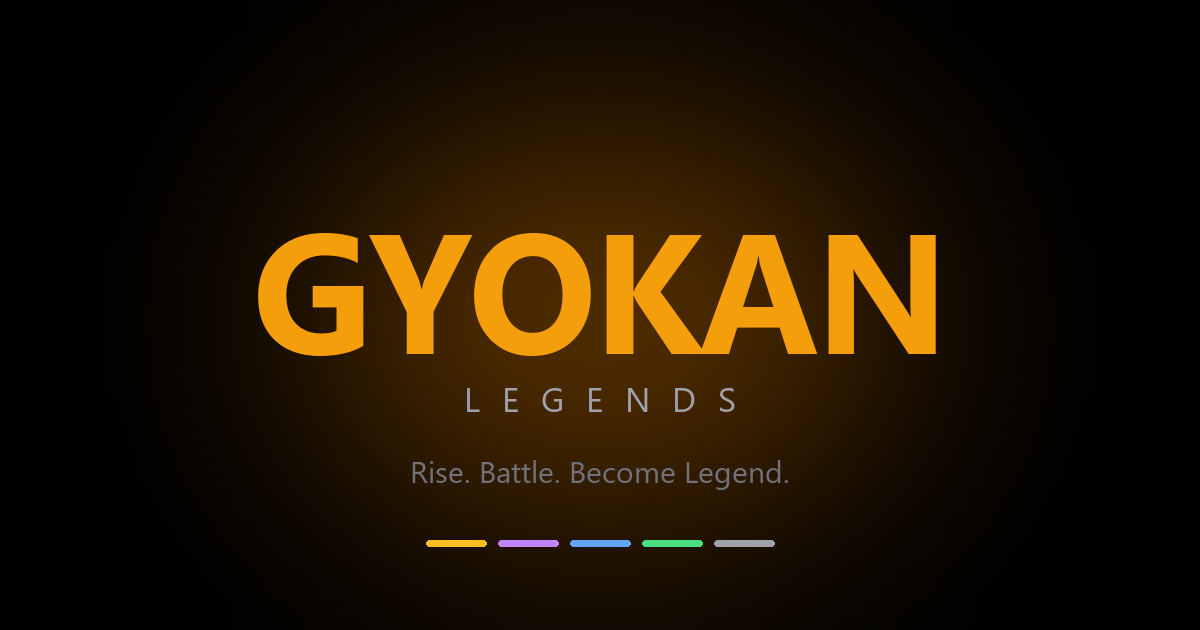
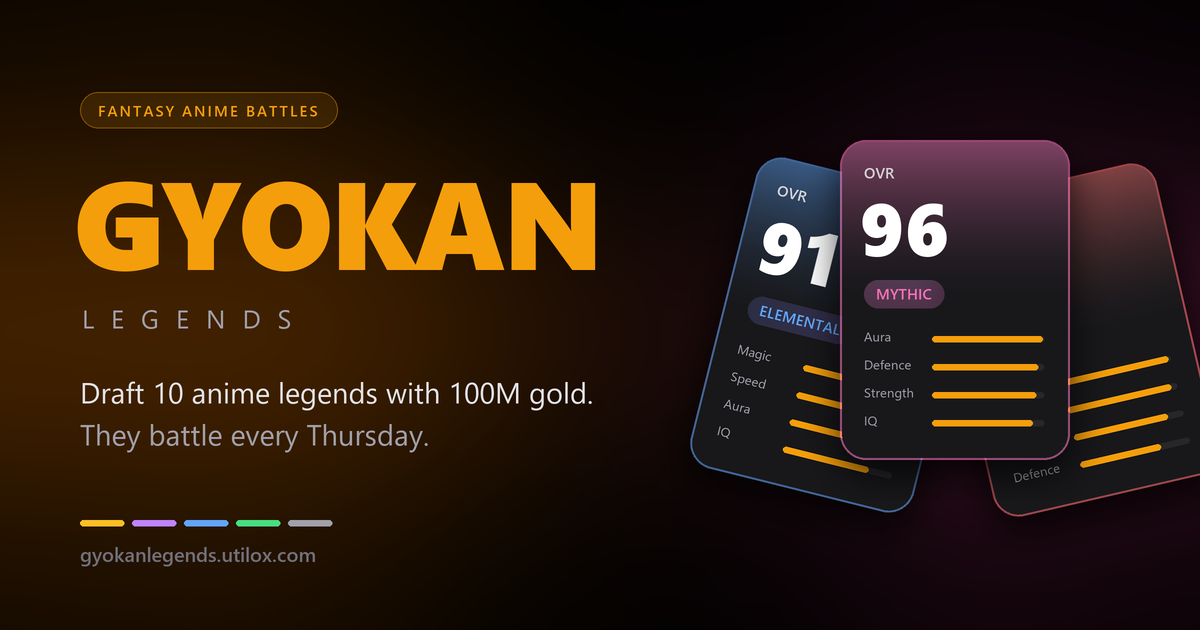
New share card: fighter-card image, sharper title and description
- og.png shows three generic fighter cards (no studio art) beside the logo
- share title "Fantasy anime battles every Thursday" and a fuller description
- scripts/make_og.py regenerates the image; ?v=2 busts social caches

diff --git a/webapp/app/layout.js b/webapp/app/layout.js
@@ -3,25 +3,27 @@ import "./globals.css";
 
 const geist = Geist({ subsets: ["latin"] });
 
-const description = "Sign 10 anime legends with 100M gold. Every Thursday they battle. Rise. Battle. Become Legend.";
+const description =
+  "Draft 10 anime legends with 100M gold. Every Thursday they battle, and every win climbs you from Rookie to Legendary. Free to play.";
+const shareTitle = "Gyokan Legends — Fantasy anime battles every Thursday";
 
 export const metadata = {
   metadataBase: new URL("https://gyokanlegends.utilox.com"),
   title: "Gyokan Legends",
   description,
   openGraph: {
-    title: "Gyokan Legends",
+    title: shareTitle,
     description,
     url: "/",
     siteName: "Gyokan Legends",
-    images: [{ url: "/og.png", width: 1200, height: 630, alt: "Gyokan Legends — Rise. Battle. Become Legend." }],
+    images: [{ url: "/og.png?v=2", width: 1200, height: 630, alt: "Gyokan Legends: three fighter cards with ratings and power types beside the Gyokan Legends logo" }],
     type: "website",
   },
   twitter: {
     card: "summary_large_image",
-    title: "Gyokan Legends",
+    title: shareTitle,
     description,
-    images: ["/og.png"],
+    images: ["/og.png?v=2"],
   },
 };
 

diff --git a/webapp/scripts/make_og.py b/webapp/scripts/make_og.py
@@ -1,0 +1,112 @@
+"""Run: python scripts/make_og.py public/og.png (Windows fonts). Share image for gyokanlegends.utilox.com: 1200x630, drawn at 2x then downsampled.
+No real character art (it belongs to the anime studios): the cards are generic fighter cards."""
+import sys
+from PIL import Image, ImageDraw, ImageFilter, ImageFont
+
+out = sys.argv[1]
+S = 2
+W, H = 1200 * S, 630 * S
+AMBER = (245, 158, 11)
+F = "C:/Windows/Fonts/"
+
+
+def font(name, size):
+    return ImageFont.truetype(F + name, size * S)
+
+
+img = Image.new("RGBA", (W, H), (0, 0, 0, 255))
+
+# two soft glows: amber behind the wordmark, warm behind the cards
+glow = Image.new("RGBA", (W, H), (0, 0, 0, 0))
+g = ImageDraw.Draw(glow)
+g.ellipse((-200 * S, 40 * S, 640 * S, 620 * S), fill=(120, 60, 0, 150))
+g.ellipse((700 * S, 60 * S, 1260 * S, 620 * S), fill=(110, 30, 70, 140))
+img.alpha_composite(glow.filter(ImageFilter.GaussianBlur(140 * S)))
+d = ImageDraw.Draw(img)
+
+
+def spaced(x, y, text, f, fill, spacing):
+    for c in text:
+        d.text((x, y), c, font=f, fill=fill)
+        x += d.textlength(c, font=f) + spacing * S
+    return x
+
+
+# --- left column
+X = 80 * S
+pill_f = font("seguisb.ttf", 15)
+label = "FANTASY ANIME BATTLES"
+pw = sum(d.textlength(c, font=pill_f) + 2 * S for c in label) + 36 * S
+# translucent shapes go on their own layer, or ImageDraw overwrites alpha instead of blending
+pill = Image.new("RGBA", (W, H), (0, 0, 0, 0))
+ImageDraw.Draw(pill).rounded_rectangle((X, 92 * S, X + pw, 128 * S), radius=18 * S, fill=(245, 158, 11, 34), outline=(245, 158, 11, 120), width=S)
+img.alpha_composite(pill)
+spaced(X + 18 * S, 100 * S, label, pill_f, AMBER, 2)
+
+spaced(X - 6 * S, 136 * S, "GYOKAN", font("seguibl.ttf", 124), AMBER, -3)
+spaced(X + 2 * S, 300 * S, "LEGENDS", font("segoeui.ttf", 26), (161, 161, 170), 17)
+
+body = font("segoeui.ttf", 29)
+d.text((X, 372 * S), "Draft 10 anime legends with 100M gold.", font=body, fill=(228, 228, 231))
+d.text((X, 414 * S), "They battle every Thursday.", font=body, fill=(161, 161, 170))
+
+# slot strip + address
+colors = [(251, 191, 36), (192, 132, 252), (96, 165, 250), (74, 222, 128), (161, 161, 170)]
+x = X
+for c in colors:
+    d.rounded_rectangle((x, 520 * S, x + 44 * S, 526 * S), radius=3 * S, fill=c)
+    x += 52 * S
+d.text((X, 540 * S), "gyokanlegends.utilox.com", font=font("seguisb.ttf", 20), fill=(113, 113, 122))
+
+
+# --- right: a fan of three fighter cards
+def card(color, type_name, ovr, stats):
+    cw, ch, r = 230 * S, 320 * S, 26 * S
+    c = Image.new("RGBA", (cw + 80 * S, ch + 80 * S), (0, 0, 0, 0))
+    pad = 40 * S
+    # drop shadow
+    sh = Image.new("RGBA", c.size, (0, 0, 0, 0))
+    ImageDraw.Draw(sh).rounded_rectangle((pad, pad + 14 * S, pad + cw, pad + ch + 14 * S), radius=r, fill=(0, 0, 0, 200))
+    c.alpha_composite(sh.filter(ImageFilter.GaussianBlur(18 * S)))
+    # body with a colour wash from the top
+    body = Image.new("RGBA", (cw, ch), (24, 24, 27, 255))
+    wash = Image.new("RGBA", (cw, ch), (0, 0, 0, 0))
+    wd = ImageDraw.Draw(wash)
+    for y in range(ch // 2):
+        a = int(120 * (1 - y / (ch / 2)) ** 1.6)
+        wd.line((0, y, cw, y), fill=color + (a,))
+    body.alpha_composite(wash)
+    mask = Image.new("L", (cw, ch), 0)
+    ImageDraw.Draw(mask).rounded_rectangle((0, 0, cw - 1, ch - 1), radius=r, fill=255)
+    c.paste(body, (pad, pad), mask)
+    cd = ImageDraw.Draw(c)
+    cd.rounded_rectangle((pad, pad, pad + cw - 1, pad + ch - 1), radius=r, outline=color + (150,), width=2 * S)
+    # rating + type
+    cd.text((pad + 24 * S, pad + 22 * S), "OVR", font=font("seguisb.ttf", 15), fill=(212, 212, 216))
+    cd.text((pad + 20 * S, pad + 36 * S), str(ovr), font=font("seguibl.ttf", 74), fill=(255, 255, 255))
+    tf = font("seguisb.ttf", 15)
+    tw = cd.textlength(type_name, font=tf)
+    cd.rounded_rectangle((pad + 24 * S, pad + 140 * S, pad + 24 * S + tw + 24 * S, pad + 168 * S), radius=14 * S, fill=color + (60,))
+    cd.text((pad + 36 * S, pad + 143 * S), type_name, font=tf, fill=color)
+    # stat bars
+    sf = font("segoeui.ttf", 13)
+    for i, (name, v) in enumerate(stats):
+        y = pad + 196 * S + i * 28 * S
+        cd.text((pad + 24 * S, y - 9 * S), name, font=sf, fill=(161, 161, 170))
+        bx = pad + 92 * S
+        cd.rounded_rectangle((bx, y, bx + 112 * S, y + 6 * S), radius=3 * S, fill=(39, 39, 42))
+        cd.rounded_rectangle((bx, y, bx + int(112 * S * v / 100), y + 6 * S), radius=3 * S, fill=AMBER)
+    return c
+
+
+cards = [
+    (card((96, 165, 250), "ELEMENTAL", 91, [("Magic", 97), ("Speed", 88), ("Aura", 90), ("IQ", 79)]), -14, (835, 335)),
+    (card((248, 113, 113), "CURSED", 93, [("Aura", 98), ("Magic", 95), ("Strength", 86), ("Defence", 74)]), 13, (1075, 340)),
+    (card((244, 114, 182), "MYTHIC", 96, [("Aura", 99), ("Defence", 95), ("Strength", 93), ("IQ", 90)]), 0, (955, 300)),
+]
+for c, angle, (cx, cy) in cards:
+    rc = c.rotate(angle, resample=Image.BICUBIC, expand=True)
+    img.alpha_composite(rc, (cx * S - rc.width // 2, cy * S - rc.height // 2))
+
+img.convert("RGB").resize((1200, 630), Image.LANCZOS).save(out, optimize=True)
+print("saved", out)
